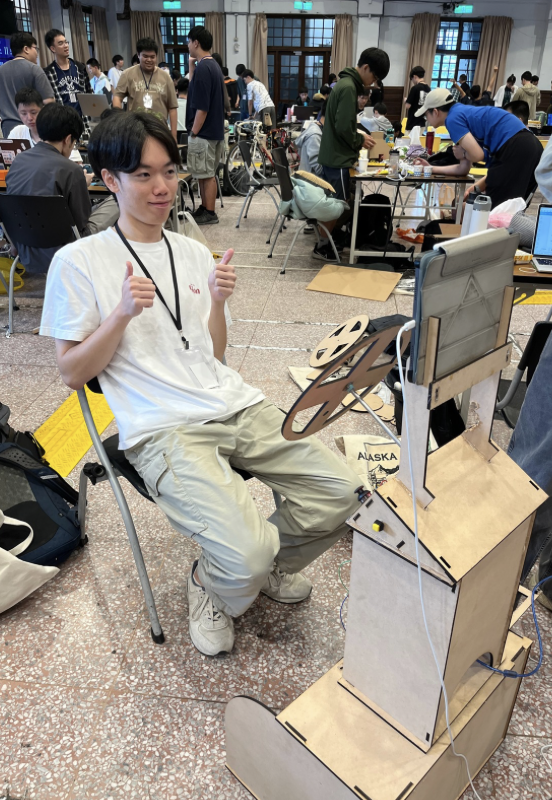
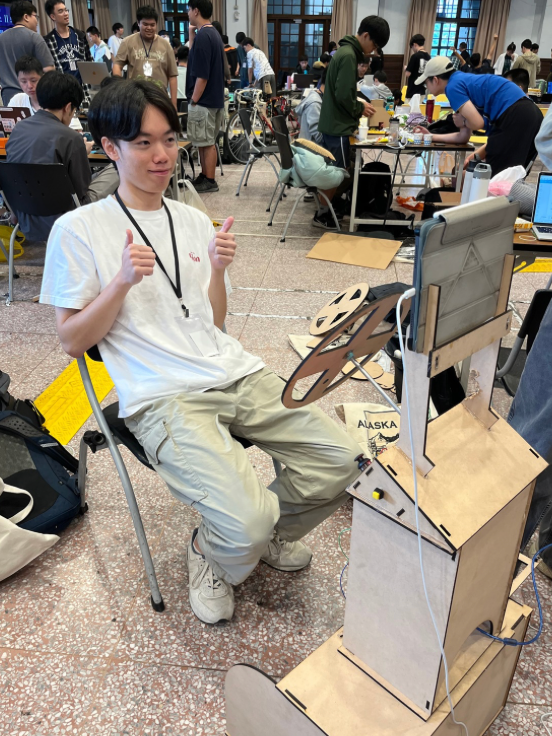
update readme

diff --git a/README.md b/README.md
@@ -4,7 +4,7 @@ Real-time AI driving assistant that combines an Arduino driving rig, a Python si
 
 Award: 1st place (AUO Prize), MakeNTU 2025
 
-<img src="docs/media/final-product/3.jpg" alt="Final Product Screenshot" width="20%" />
+<img src="docs/media/final-product/3.png" alt="Final Product Screenshot" width="25%" />
 
 ## Demo
 
